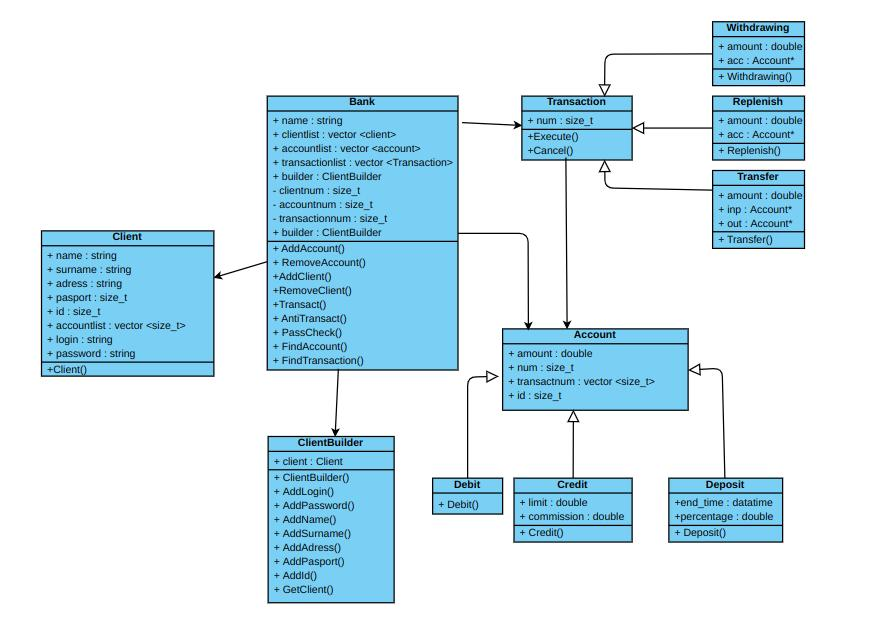
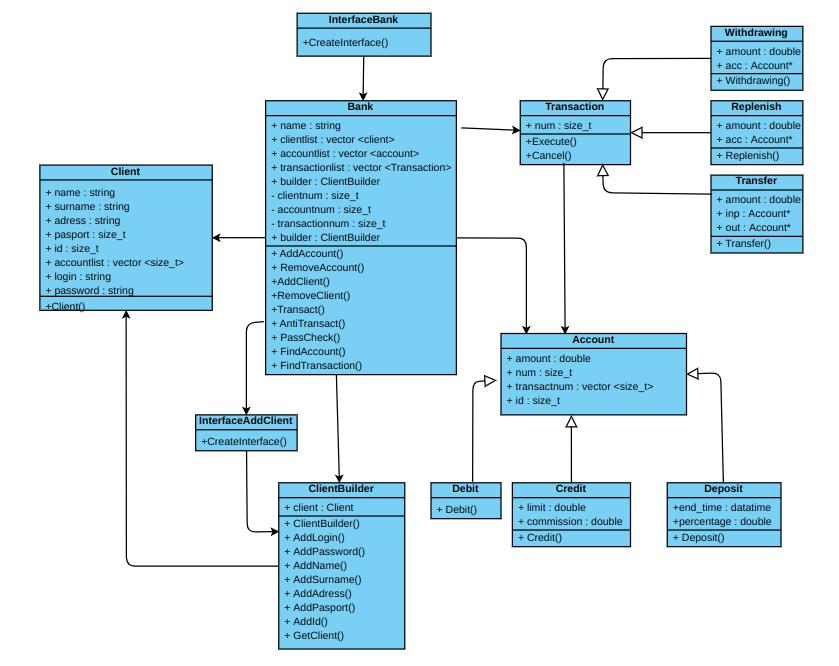
update project

diff --git a/Code/interfacebank.cpp b/Code/interfacebank.cpp
@@ -1,0 +1,92 @@
+#include "interfacebank.h"
+
+void InterfaceBank::CreateInterface(Bank &bank) {
+  int key;
+  while (true) {
+    std::cout << "\nВыберете действие:\nЗарегистрироваться - 0\nВойти - "
+                 "1\nЗакончить работу - 2\nВведите код: ";
+    std::cin >> key;
+    while (0 > key or 2 < key) {
+      std::cout << "Неправильный код. Попробуйте ещё раз: ";
+      std::cin >> key;
+    }
+    Client client;
+    std::string login;
+    std::string pass;
+    switch (key) {
+    case 0:// nЗарегистрироваться
+      bank.AddClient();
+      client = bank.clientlist.back();
+      break;
+    case 1: // Войти
+      std::cout << "Введите логин: ";
+      std::cin >> login;
+      std::cout << "Введите пароль: ";
+      std::cin >> pass;
+      client = bank.PassCheck(login, pass);
+      break;
+    }
+    if (key == 2) {
+      break;
+    }
+    while (true) {
+      std::cout << "\nВыберете действие:\nСделать транзакцию - 0\nОтменить "
+                   "транзакцию - 1\nОткрыть счёт - 2\nЗакрыть счёт - 3\nВыйти "
+                   "из аккаунта - 4\nУдалить аккаунт - 5\nВведите код: ";
+
+      std::cin >> key;
+      while (0 > key or 5 < key) {
+        std::cout << "Неправильный код. Попробуйте ещё раз: ";
+        std::cin >> key;
+      }
+
+      double num;
+      switch (key) {
+      case 0: // Сделать транзакцию
+        std::cout << "\nВыберете тип транзакции:\nСнятие - 0\nПополнение - "
+                     "1\nПеревод - 2\nВведите код: ";
+        std::cin >> key;
+        while (0 > key or 2 < key) {
+          std::cout << "Неправильный код. Попробуйте ещё раз: ";
+          std::cin >> key;
+        }
+        std::cout << "\nВведите номер вашего счета: ";
+        std::cin >> num;
+        std::cout << "\nВведите сумму: ";
+        double amount;
+        std::cin >> amount;
+        bank.Transact(key, amount, num);
+        break;
+      case 1: // Отменить транзакцию
+        std::cout << "\nВведите номер транзакции: ";
+        std::cin >> num;
+        bank.AntiTransact(num);
+        break;
+      case 2: // Открыть счёт
+        std::cout << "\nВыберете тип счета:\nДебетовый - 0\nКредитнрый - "
+                     "1\nДепозит - 2\nВведите код: ";
+        std::cin >> key;
+        while (0 > key or 2 < key) {
+          std::cout << "Неправильный код. Попробуйте ещё раз: ";
+          std::cin >> key;
+        }
+        bank.AddAccount(client.id, key);
+        break;
+      case 3: // Закрыть счёт
+        std::cout << "\nВведите номер Счёта: ";
+        std::cin >> num;
+        bank.RemoveAccount(num);
+        break;
+      case 4: // Выйти из аккаунта
+        std::cout << "Всего доброго\n";
+        break;
+      case 5: // Удалить аккаунт
+        bank.RemoveClient(client.id);
+        break;
+      }
+      if (key == 4 or key == 5) {
+        break;
+      }
+    }
+  }
+}

diff --git a/Code/_MAIN.cpp b/Code/_MAIN.cpp
@@ -1,95 +1,8 @@
-#include "bank.h"
-#include <iostream>
-#include <vector>
+#include "interfacebank.h"
 
 int main() {
   Bank bank;
-  int k;
-  while (true) {
-    std::cout << "\nВыберете действие:\nЗарегистрироваться - 0\nВойти - "
-                 "1\nЗакончить работу - 2\nВведите код: ";
-    std::cin >> k;
-    while (0 > k or 2 < k) {
-      std::cout << "Неправильный код. Попробуйте ещё раз: ";
-      std::cin >> k;
-    }
-    Client client;
-    std::string login;
-    std::string pass;
-    switch (k) {
-    case 0:
-      bank.AddClient();
-      client = bank.clientlist.back();
-      break;
-    case 1: // Войти
-      std::cout << "Введите логин: ";
-      std::cin >> login;
-      std::cout << "Введите пароль: ";
-      std::cin >> pass;
-      client = bank.PassCheck(login, pass);
-      break;
-    case 2:
-      return 0;
-    }
-
-    while (true) {
-      std::cout << "\nВыберете действие:\nСделать транзакцию - 0\nОтменить "
-                   "транзакцию - 1\nОткрыть счёт - 2\nЗакрыть счёт - 3\nВыйти "
-                   "из аккаунта - 4\nУдалить аккаунт - 5\nВведите код: ";
-      std::cin >> k;
-
-      while (0 > k or 5 < k) {
-        std::cout << "Неправильный код. Попробуйте ещё раз: ";
-        std::cin >> k;
-      }
-
-      double num;
-      switch (k) {
-      case 0: // Сделать транзакцию
-        std::cout << "\nВыберете тип транзакции:\nСнятие - 0\nПополнение - 1\nПеревод - 2\nВведите код: ";
-        std::cin >> k;
-        while (0 > k or 2 < k) {
-          std::cout << "Неправильный код. Попробуйте ещё раз: ";
-          std::cin >> k;
-        }
-        std::cout << "\nВведите номер вашего счета: ";
-        std::cin >> num;
-        std::cout << "\nВведите сумму: ";
-        double amount;
-        std::cin >> amount;
-        bank.Transact(k, amount, num);
-        break;
-      case 1: // Отменить транзакцию
-        std::cout << "\nВведите номер транзакции: ";
-        std::cin >> num;  
-        bank.AntiTransact(num);
-        break;
-      case 2: // Открыть счёт
-        std::cout << "\nВыберете тип счета:\nДебетовый - 0\nКредитнрый - 1\nДепозит - 2\nВведите код: ";
-        std::cin >> k;
-        while (0 > k or 2 < k) {
-          std::cout << "Неправильный код. Попробуйте ещё раз: ";
-          std::cin >> k;
-        }
-        bank.AddAccount(client.id, k);
-        break;
-      case 3: // Закрыть счёт
-        std::cout << "\nВведите номер Счёта: ";
-        std::cin >> num;
-        bank.RemoveAccount(num);
-        break;
-      case 4: // Выйти из аккаунта
-        std::cout << "Всего доброго\n";
-        break;
-      case 5: // Удалить аккаунт
-        bank.RemoveClient(client.id);
-        break;
-      }
-      if (k == 4 or k == 5) {
-        break;
-      }
-    }
-  }
-
+  InterfaceBank interf;
+  interf.CreateInterface(bank);
   return 0;
 }

diff --git a/Code/bank.h b/Code/bank.h
@@ -8,6 +8,7 @@
 #include "replenish.h"
 #include "transfer.h"
 #include "clientbuilder.h"
+#include "interfaceaddclient.h"
 #include <iostream> 
 #include <vector>
 
@@ -26,13 +27,13 @@ class Bank {
   
   Bank() = default;
 
-  Account* FindAccount(size_t num);
-  Transaction* FindTransaction(size_t num);
-  void AddAccount(size_t id, size_t type);
-  void RemoveAccount(size_t num);
-  void AddClient();
-  void RemoveClient(size_t id);
-  void Transact(size_t type, double amount, size_t num);
-  void AntiTransact(size_t num);
-  Client PassCheck(std::string login, std::string password);
+  Account* FindAccount(size_t num);//найти аккаунт
+  Transaction* FindTransaction(size_t num);//найти транзакцию
+  void AddAccount(size_t id, size_t type);//добавить счет
+  void RemoveAccount(size_t num);//удалить счет
+  void AddClient();//добавить клиент
+  void RemoveClient(size_t id);//удалить клиента
+  void Transact(size_t type, double amount, size_t num);//транзакция
+  void AntiTransact(size_t num);//отмена транзакции
+  Client PassCheck(std::string login, std::string password);//проверка допуска клиента
 }; 

diff --git a/Code/bank.cpp b/Code/bank.cpp
@@ -49,27 +49,8 @@ void Bank::RemoveAccount(size_t num) {
 }
 
 void Bank::AddClient() {
-  std::cout << "Введите логин: ";
-  builder.AddLogin();
-  std::cout << "Введите пароль: ";
-  builder.AddPassword();
-  std::cout << "Введите имя: ";
-  builder.AddName();
-  std::cout << "Введите фамилию: ";
-  builder.AddSurname();
-  std::cout << "Хотите ввести адрес[Y/n]: ";
-  char c;
-  std::cin >> c;
-  if (c == 'Y') {
-    std::cout << "Введите адресс: ";
-    builder.AddAdress();
-  }
-  std::cout << "Хотите ввести номер паспорта[Y/n]: ";
-  std::cin >> c;
-  if (c == 'Y') {
-    std::cout << "Введите номер паспорта: ";
-    builder.AddPasport();
-  }
+  InterfaceAddClient interf;
+  interf.CreateInterface(builder);
   builder.AddId(clientnum);
   clientlist.push_back(builder.GetClient());
   ++clientnum;

diff --git a/Code/interfaceaddclient.cpp b/Code/interfaceaddclient.cpp
@@ -1,0 +1,25 @@
+#include "interfaceaddclient.h"
+
+void InterfaceAddClient::CreateInterface(ClientBuilder &builder) {
+  std::cout << "Введите логин: ";
+  builder.AddLogin();
+  std::cout << "Введите пароль: ";
+  builder.AddPassword();
+  std::cout << "Введите имя: ";
+  builder.AddName();
+  std::cout << "Введите фамилию: ";
+  builder.AddSurname();
+  std::cout << "Хотите ввести адрес[Y/n]: ";
+  char c;
+  std::cin >> c;
+  if (c == 'Y') {
+    std::cout << "Введите адресс: ";
+    builder.AddAdress();
+  }
+  std::cout << "Хотите ввести номер паспорта[Y/n]: ";
+  std::cin >> c;
+  if (c == 'Y') {
+    std::cout << "Введите номер паспорта: ";
+    builder.AddPasport();
+  }
+}

diff --git a/Code/client.h b/Code/client.h
@@ -3,17 +3,21 @@
 #include <vector>
 
 class Client {
- public:
+public:
   size_t id;
   std::string name;
   std::string surname;
   std::string adress;
   size_t pasport;
-  std::vector <size_t> accountlist;
+  std::vector<size_t> accountlist;
   std::string login;
   std::string password;
 
-  Client() = default;
-  Client(size_t x0, std::string x1, std::string x2, std::string x3, size_t x4, std::string x5, std::string x6);
+  Client() {
+    adress = "";
+    pasport = 0;
+  }
+  Client(size_t x0, std::string x1, std::string x2, std::string x3, size_t x4,
+         std::string x5, std::string x6);
   bool Questionable();
 };

diff --git a/Code/transfer.h b/Code/transfer.h
@@ -4,12 +4,12 @@
 #include <iostream>
 #include <vector>
 
-class Transfer : public Transaction {
+class Transfer : public Transaction {//перевод
  public:
   double amount;
   Account* inp; //кому
   Account* out; //кто
   Transfer(double x1, Account* x2, Account* x3, size_t n);
-  void Execute();
-  void Cancel();
+  void Execute();//выполнить
+  void Cancel();//отменить
 };

diff --git a/Code/account.h b/Code/account.h
@@ -1,7 +1,7 @@
 #pragma once
 #include "transaction.h"
 
-class Account { // переопределить =
+class Account { //счёт
  public:
   double amount;
   size_t num;
@@ -9,4 +9,5 @@ class Account { // переопределить =
   std::vector<size_t> transactnum;
   Account() = default;
   Account(double x1, size_t x2, size_t x3);
+  Account &operator=(Account other);
 };

diff --git a/Code/replenish.h b/Code/replenish.h
@@ -8,6 +8,6 @@ class Replenish : public Transaction { //пополнение счета
   double amount;
   Account* acc;
   Replenish(double x1, Account* x2, size_t n);
-  void Execute();
-  void Cancel();
+  void Execute();//выполнить
+  void Cancel();//отменить
 };

diff --git a/Code/account.cpp b/Code/account.cpp
@@ -6,3 +6,10 @@ Account::Account(double x1, size_t x2, size_t x3) {
   num = x2;
   client_id = x3;
 }
+Account &Account::operator=(Account other) {
+  amount = other.amount;
+  num = other.num;
+  client_id = other.client_id;
+  transactnum = other.transactnum;
+  return *this;
+}

diff --git a/Code/withdrawing.h b/Code/withdrawing.h
@@ -9,6 +9,6 @@ class Withdrawing : public Transaction { //снятие денег
   double amount;
   Account* acc;
   Withdrawing(double x1, Account* x2, size_t n);
-  void Execute();
-  void Cancel();
+  void Execute();//выполнить
+  void Cancel();//отменить
 };

diff --git a/Code/transaction.h b/Code/transaction.h
@@ -3,11 +3,10 @@
 #include <iostream>
 #include <vector>
 
-class Transaction {
+class Transaction {//транзакция
  public:
   size_t num;
 
-  void Execute();
-  
-  void Cancel();
+  void Execute();//выполнить
+  void Cancel();//отменить
 };
